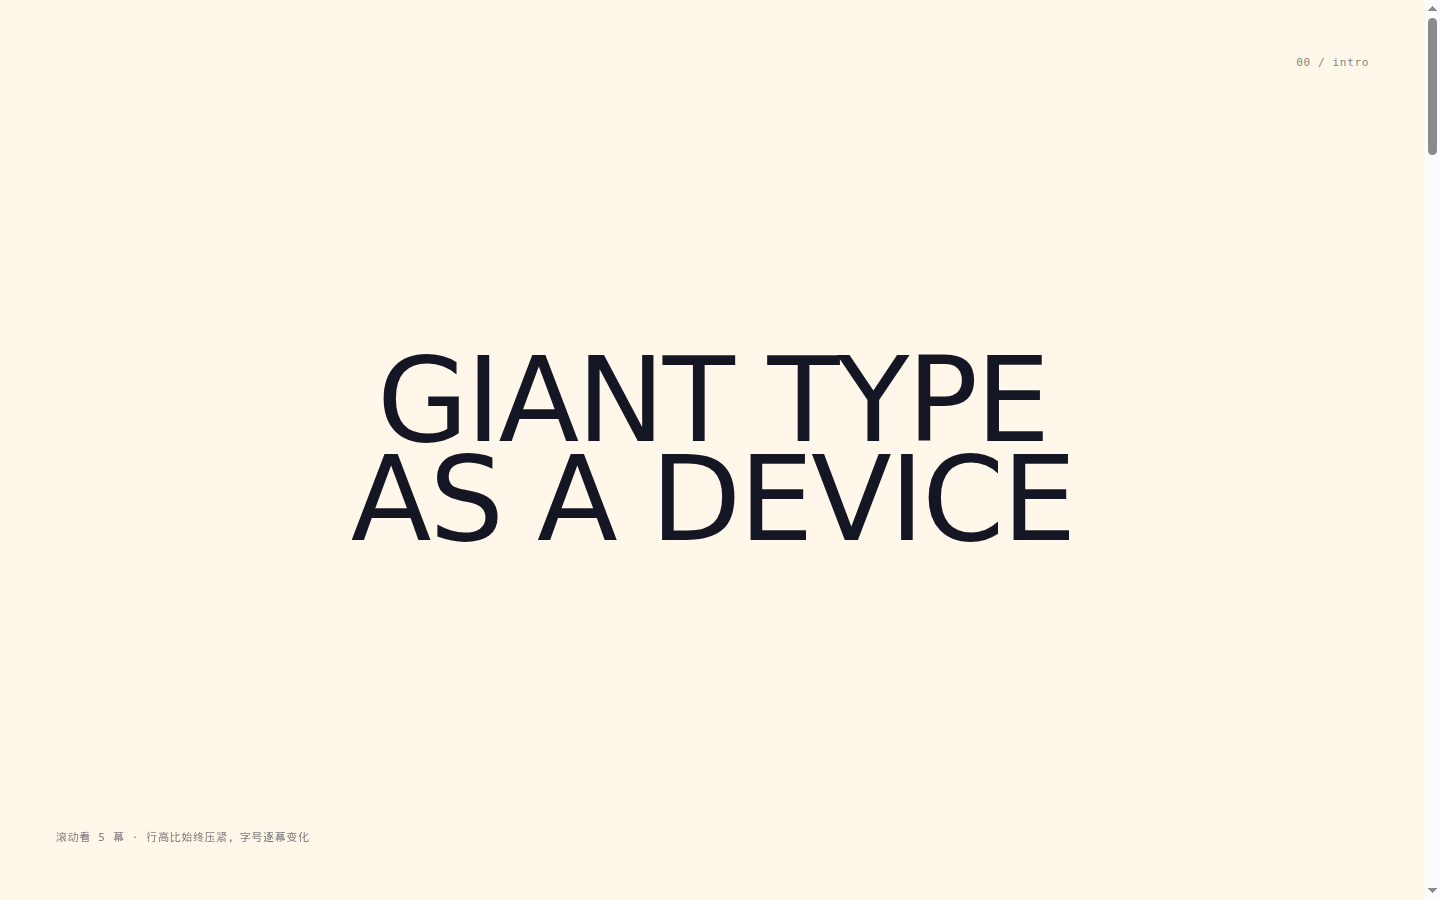
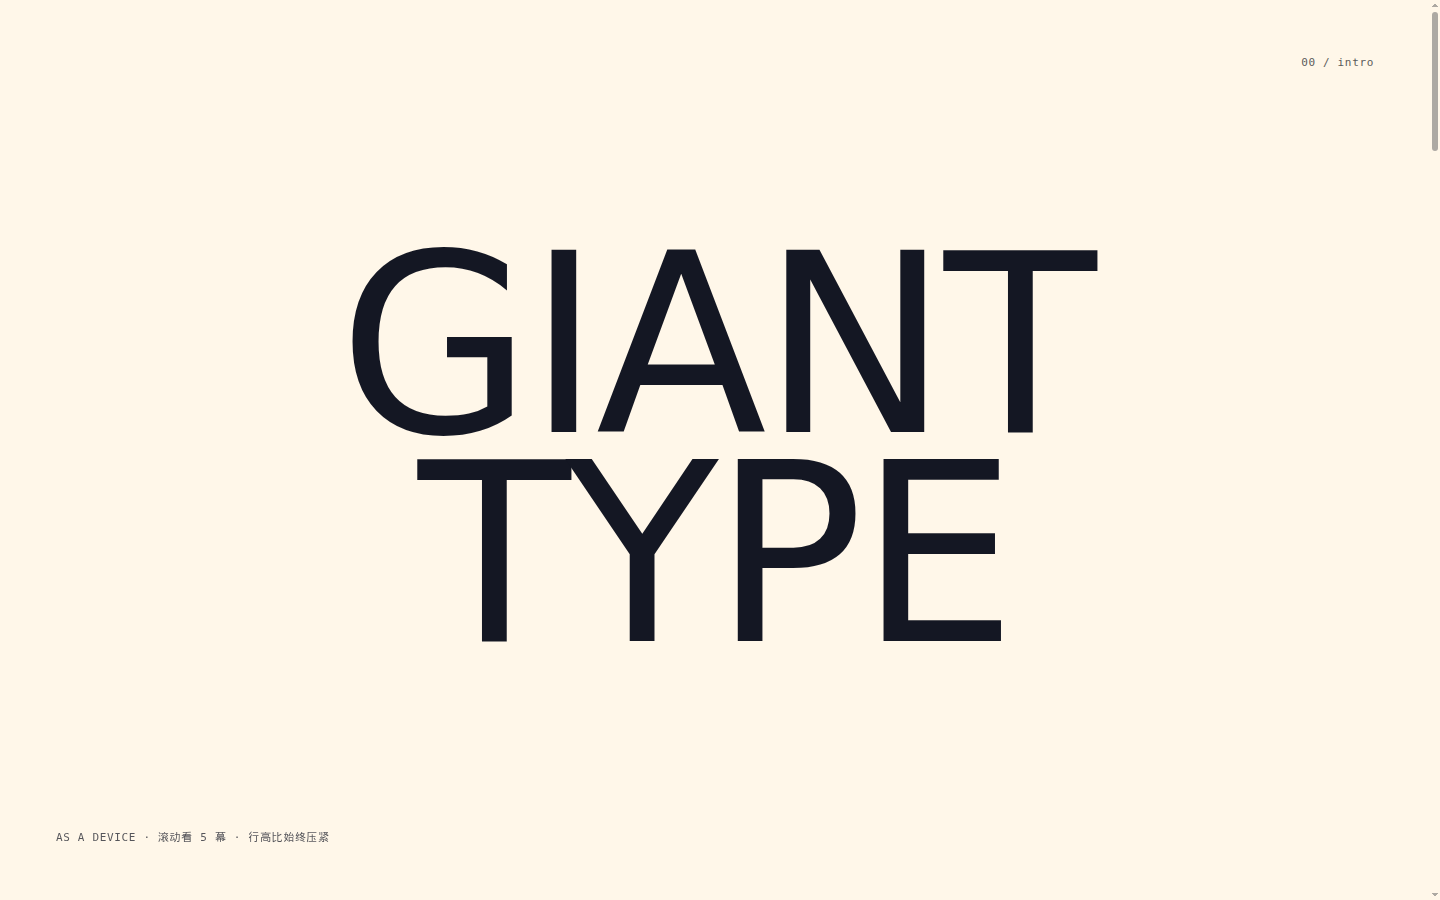
polish(giant-type): 开场幕放大为真巨字、细滚动条、小字提对比度；README 如实说明纯 CSS 撑满的填充率区间

diff --git a/entries/2026-10-11-giant-type-scenes/src/scenes.css b/entries/2026-10-11-giant-type-scenes/src/scenes.css
@@ -74,7 +74,7 @@ body {
   font-size: 11px;
   letter-spacing: 0.06em;
   text-transform: uppercase;
-  opacity: 0.55;
+  opacity: 0.72;
 }
 .scene__idx {
   position: absolute;
@@ -83,7 +83,7 @@ body {
   font-family: ui-monospace, SFMono-Regular, Menlo, Consolas, monospace;
   font-size: 11px;
   letter-spacing: 0.06em;
-  opacity: 0.55;
+  opacity: 0.72;
 }
 
 /* ---------- 各幕：字号同时对宽度与高度双约束 ----------
@@ -95,7 +95,11 @@ body {
 .s3 { --bg: var(--red);    --fg: var(--ground); --fs: clamp(34px, min(22.4vw, 14svh), 250px); --lh: 0.852; }
 .s4 { --bg: var(--yellow); --fg: var(--ink);    --fs: clamp(28px, 15.2vw, 230px);             --lh: 0.680; }
 .s5 { --bg: var(--orange); --fg: var(--ink);    --fs: clamp(28px, min(17.6vw, 21svh), 213px); --lh: 0.833; }
-.s0 { --bg: var(--ground); --fg: var(--ink);    --fs: clamp(24px, min(8.6vw, 40svh), 118px);  --lh: 0.836; --fw: 500; }
+/* 开场幕也是巨字（原来给了偏小的上限，导致首屏只有 51% 宽 / 18% 高，被评"巨字不够巨"） */
+.s0 { --bg: var(--ground); --fg: var(--ink);    --fs: clamp(30px, min(29vw, 46svh), 250px);  --lh: 0.836; --fw: 500; }
+
+/* 细一点的滚动条，别让原生粗条破坏极简 */
+html { scrollbar-width: thin; scrollbar-color: rgba(20, 23, 35, 0.35) transparent; }
 
 /* ---------- 入场揭示（本 demo 自加，原站揭示机制未取证 → [未验证]） ----------
    用 CSS 滚动驱动动画，浏览器不支持时自动退化为静止呈现，零 JS。 */

diff --git a/entries/2026-10-11-giant-type-scenes/demo/index.html b/entries/2026-10-11-giant-type-scenes/demo/index.html
@@ -8,12 +8,12 @@
 </head>
 <body>
 
-<!-- 0 · 说明幕 -->
+<!-- 0 · 说明幕（同样是巨字） -->
 <section class="scene s0">
   <span class="scene__idx">00 / intro</span>
-  <h1 class="scene__title">GIANT TYPE
-AS A DEVICE</h1>
-  <span class="scene__spec">滚动看 5 幕 · 行高比始终压紧，字号逐幕变化</span>
+  <h1 class="scene__title">GIANT
+TYPE</h1>
+  <span class="scene__spec">as a device · 滚动看 5 幕 · 行高比始终压紧</span>
 </section>
 
 <!-- 1 · 两行字块，奶油底 -->

diff --git a/entries/2026-10-11-giant-type-scenes/README.md b/entries/2026-10-11-giant-type-scenes/README.md
@@ -46,6 +46,22 @@
 - **字号必须双约束**：`clamp(32px, min(16.6vw, 40svh), 250px)`。只用 `vw` 只保证「撑满宽度」，在矮窗口里多行字块会被裁掉——实测 6 行 × 250px = 1278px，而视口高只有 577px。`svh` 那一项保证「不超出高度」。
 - **原站揭示机制未取证**：demo 里的入场揭示是我们自加的（CSS 滚动驱动动画 `animation-timeline: view()`，浏览器不支持则退化为静止呈现），标记 `[未验证]`，可整块删掉。
 
+## 关于「撑满」的诚实说明（复刻的关键难点）
+
+原站的字块是真的顶到视口两边。**纯 CSS 做不到这一点**——`vw` 只能按「视口宽 ÷ 字符数」估算，而字符的实际宽度取决于字体（本 demo 用系统无衬线，观感宽度与原站商用字体不同）。所以本 demo 各幕的实际填充率在 **39%~97%** 之间浮动：
+
+| 视口 | 第 1 幕（2 行 × 8 字符） | 第 3 幕（6 行单字母） |
+| --- | --- | --- |
+| 1280×577 | 宽 97% | 宽 5% / 高 72% |
+| 1440×900 | 宽 97% | 宽 7% / 高 72% |
+| 1920×1080 | 宽 76% | 宽 6% / 高 72% |
+
+要真正逐字顶满，只有两条路：
+1. **SVG `textLength="100%"`**（`<svg><text textLength="100%" lengthAdjust="spacingAndGlyphs">`）——纯声明式，不需 JS，但要把每行写成一个 `<tspan>`，且会拉伸字距；
+2. **JS 量字**（`canvas.measureText` 或 `Range.getBoundingClientRect` 反推字号）——最精确，代价是引入脚本。
+
+本 demo 选了「零 JS」这条折中路线，并把量到的填充率如实列在上面，而不是假装顶满了。宽屏上填充率还会被 `250px` 上限进一步压住——**这一点与原站一致**（原站在 1280 视口用的就是 250px 上限）。
+
 ## 怎么用
 
 ```html
